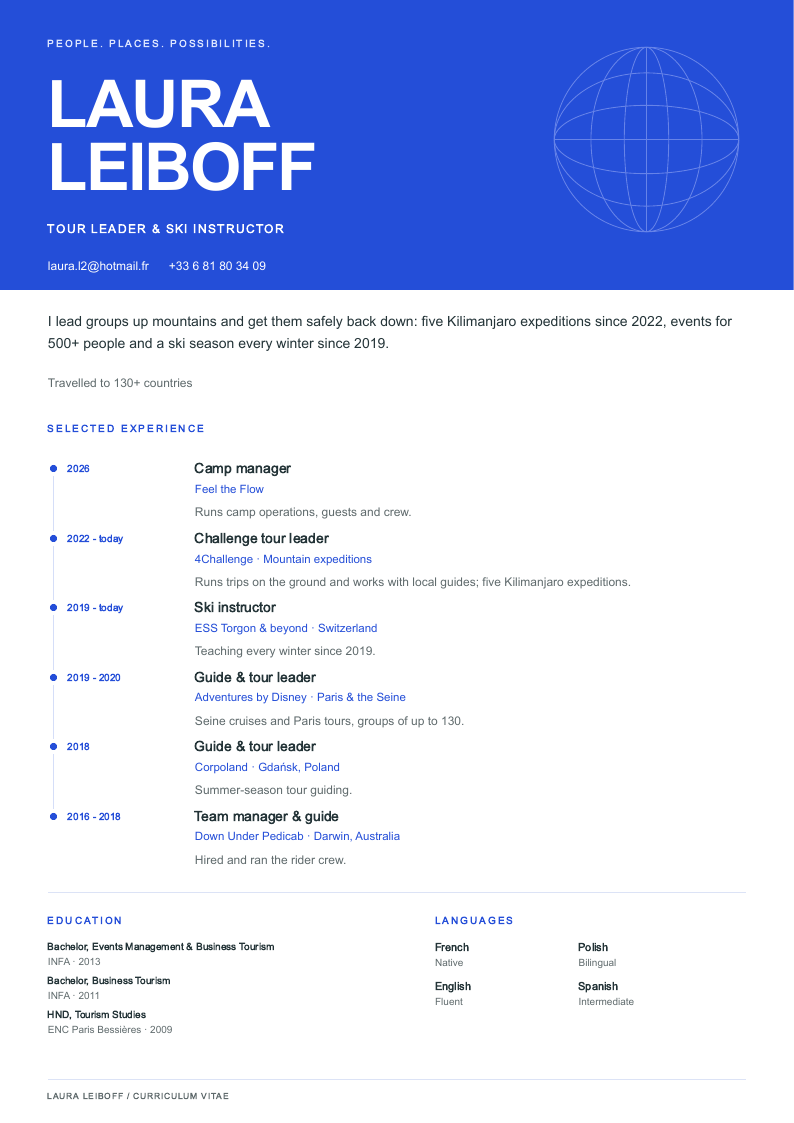
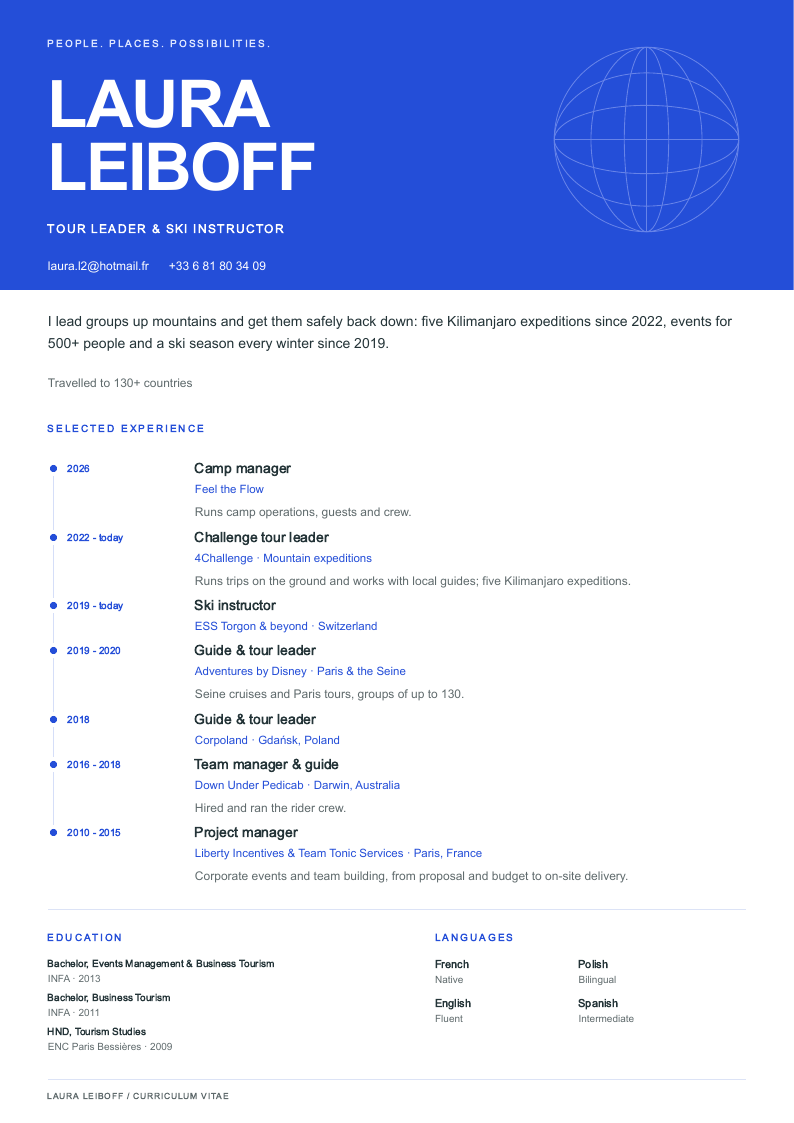
Add 2010-2015 project manager role across all designs
Liberty Incentives & Team Tonic Services, Paris. Seven jobs now fit on
one A4 page everywhere: empty descriptions are skipped (ski instructor and
Corpoland don't need one), passport stamps go four per row, the piste map
gains a seventh run, and the GPT layouts reclaim spare footer space.

diff --git a/claude/render.js b/claude/render.js
@@ -7,6 +7,7 @@
   const range = (j, sep) => esc(j.date.replace(' - ', sep));
   const start = j => esc(j.date.split(' - ')[0]);
   const at = j => esc([j.company, j.place].filter(Boolean).join(', '));
+  const desc = j => j.description ? `<p>${esc(j.description)}</p>` : '';
   const values = { ...d, languagesCount: d.languages.length };
 
   // Single values: <span data-cv="countries"></span>; an <a data-cv="email"> also gets its mailto.
@@ -22,7 +23,7 @@
   if (design === 'summit') {
     fill('[data-jobs]', d.jobs.map((j, i) => `<li${i ? '' : ' class="now"'}>
       <div class="meta"><span class="when">${range(j, ' — ')}</span> <span class="where">${at(j)}</span></div>
-      <div class="what">${esc(j.title)}</div><p>${esc(j.description)}</p></li>`).join(''));
+      <div class="what">${esc(j.title)}</div>${desc(j)}</li>`).join(''));
     fill('[data-languages]', d.languages.map(([l, lvl]) =>
       `<li>${esc(l)} <span class="bar"><i style="width:${levelWidth[lvl] || 50}%"></i></span><small>${esc(lvl)}</small></li>`).join(''));
     fill('[data-education]', d.education.map(([t, org, y]) => `<li><b>${esc(y)}</b> ${esc(t)}, ${esc(org)}</li>`).join(''));
@@ -32,7 +33,7 @@
   if (design === 'passport') {
     fill('[data-jobs]', d.jobs.map((j, i) => `<div class="stamp s${i + 1}">
       <div class="t">${esc(j.title)}</div><div class="d">${range(j, ' → ')}</div>
-      <p>${esc(j.company)}. ${esc(j.description)}</p></div>`).join(''));
+      <p>${esc([j.company, j.description].filter(Boolean).join('. '))}</p></div>`).join(''));
     fill('[data-languages]', d.languages.map(([l, lvl]) => `<li><b>${esc(l)}</b> ${esc(lvl.toLowerCase())}</li>`).join(''));
     fill('[data-education]', d.education.map(([t, org, y]) => `<li><b>${esc(y)}</b> ${esc(t)} — ${esc(org)}</li>`).join(''));
     fill('[data-interests]', d.interests.map(x => `<li>${esc(x)}</li>`).join(''));
@@ -40,7 +41,7 @@
 
   if (design === 'riso') {
     fill('[data-jobs]', d.jobs.map(j => `<li><div class="yr">${start(j)}${j.date.endsWith('today') ? ' —' : ''}</div>
-      <div><h3>${esc(j.title)} <span class="at">${esc(j.company)}</span></h3><p>${esc(j.description)}</p></div></li>`).join(''));
+      <div><h3>${esc(j.title)} <span class="at">${esc(j.company)}</span></h3>${desc(j)}</div></li>`).join(''));
     fill('[data-languages]', d.languages.map(([l, lvl]) => `<li><b>${esc(l)}</b> ${esc(lvl.toLowerCase())}</li>`).join(''));
     fill('[data-education]', d.education.map(([t, org, y]) => `<li>${esc(t)}, ${esc(org)} — ${esc(y)}</li>`).join(''));
     fill('[data-interests]', d.interests.map(x => `<span>${esc(x)}</span>`).join(''));
@@ -49,7 +50,7 @@
   if (design === 'piste') {
     const runs = [...d.jobs].reverse(); // oldest is run 1, matching the map's left-to-right order
     fill('[data-jobs]', runs.map((j, i) => `<li><span class="mark ${kindClass[j.kind]}">${i + 1}</span><div>
-      <h3>${esc(j.title)}</h3><div class="meta">${at(j)} — ${range(j, ' to ')}</div><p>${esc(j.description)}</p></div></li>`).join(''));
+      <h3>${esc(j.title)}</h3><div class="meta">${at(j)} — ${range(j, ' to ')}</div>${desc(j)}</div></li>`).join(''));
     runs.forEach((j, i) => {
       document.querySelectorAll(`[data-run="${i + 1}"]`).forEach(el =>
         el.setAttribute(el.tagName === 'path' ? 'stroke' : 'fill', kindColor[j.kind]));

diff --git a/claude/4-piste.html b/claude/4-piste.html
@@ -143,7 +143,7 @@
     </div>
   </header>
 
-  <svg class="map" viewBox="0 28 800 350" aria-label="Career drawn as a ski-resort trail map with six numbered runs">
+  <svg class="map" viewBox="0 28 800 350" aria-label="Career drawn as a ski-resort trail map with seven numbered runs">
     <defs>
       <symbol id="tree" viewBox="0 0 20 30"><path d="M10 0 L20 22 L13 22 L13 30 L7 30 L7 22 L0 22 Z" fill="var(--pine)"/></symbol>
     </defs>
@@ -161,23 +161,25 @@
 
     <!-- runs -->
     <g fill="none" stroke-width="6" stroke-linecap="round">
-      <path data-run="1" d="M180,125 C150,200 230,260 160,370"/>
-      <path data-run="2" d="M200,140 C260,210 220,290 290,370"/>
-      <path data-run="3" d="M380,90 C330,170 400,250 360,375"/>
-      <path data-run="4" d="M420,90 C480,170 430,260 480,375"/>
-      <path data-run="5" d="M405,62 C560,140 520,240 600,370"/>
-      <path data-run="6" d="M640,110 C700,190 640,280 720,370"/>
+      <path data-run="1" d="M150,145 C105,215 150,285 70,372"/>
+      <path data-run="2" d="M180,125 C150,200 230,260 160,370"/>
+      <path data-run="3" d="M200,140 C260,210 220,290 290,370"/>
+      <path data-run="4" d="M380,90 C330,170 400,250 360,375"/>
+      <path data-run="5" d="M420,90 C480,170 430,260 480,375"/>
+      <path data-run="6" d="M405,62 C560,140 520,240 600,370"/>
+      <path data-run="7" d="M640,110 C700,190 640,280 720,370"/>
     </g>
     <g stroke="#fff" stroke-width="2.5">
-      <circle data-run="1" cx="185" cy="234" r="13"/>
-      <circle data-run="2" cx="241" cy="251" r="13"/>
-      <circle data-run="3" cx="366" cy="216" r="13"/>
-      <circle data-run="4" cx="454" cy="219" r="13"/>
-      <circle data-run="5" cx="530" cy="197" r="13"/>
-      <circle data-run="6" cx="672" cy="236" r="13"/>
+      <circle data-run="1" cx="122" cy="252" r="13"/>
+      <circle data-run="2" cx="185" cy="234" r="13"/>
+      <circle data-run="3" cx="241" cy="251" r="13"/>
+      <circle data-run="4" cx="366" cy="216" r="13"/>
+      <circle data-run="5" cx="454" cy="219" r="13"/>
+      <circle data-run="6" cx="530" cy="197" r="13"/>
+      <circle data-run="7" cx="672" cy="236" r="13"/>
     </g>
-    <text class="num" x="185" y="234">1</text><text class="num" x="241" y="251">2</text><text class="num" x="366" y="216">3</text>
-    <text class="num" x="454" y="219">4</text><text class="num" x="530" y="197">5</text><text class="num" x="672" y="236">6</text>
+    <text class="num" x="122" y="252">1</text><text class="num" x="185" y="234">2</text><text class="num" x="241" y="251">3</text><text class="num" x="366" y="216">4</text>
+    <text class="num" x="454" y="219">5</text><text class="num" x="530" y="197">6</text><text class="num" x="672" y="236">7</text>
 
     <!-- peak names -->
     <text class="peak" x="412" y="40">Kibo</text><text class="alt" x="452" y="40">5,895 m</text>

diff --git a/content.js b/content.js
@@ -22,12 +22,14 @@ window.CV = {
     ['HND, Tourism Studies', 'ENC Paris Bessières', '2009']
   ],
   // Newest first. `kind` colours the runs on the piste map: manage, expedition, ski, guide.
+  // Leave `description` empty when the title says it all; every design skips empty ones.
   jobs: [
     {date:'2026', title:'Camp manager', company:'Feel the Flow', place:'', kind:'manage', description:'Runs camp operations, guests and crew.'},
     {date:'2022 - today', title:'Challenge tour leader', company:'4Challenge', place:'Mountain expeditions', kind:'expedition', description:'Runs trips on the ground and works with local guides; five Kilimanjaro expeditions.'},
-    {date:'2019 - today', title:'Ski instructor', company:'ESS Torgon & beyond', place:'Switzerland', kind:'ski', description:'Teaching every winter since 2019.'},
+    {date:'2019 - today', title:'Ski instructor', company:'ESS Torgon & beyond', place:'Switzerland', kind:'ski', description:''},
     {date:'2019 - 2020', title:'Guide & tour leader', company:'Adventures by Disney', place:'Paris & the Seine', kind:'guide', description:'Seine cruises and Paris tours, groups of up to 130.'},
-    {date:'2018', title:'Guide & tour leader', company:'Corpoland', place:'Gdańsk, Poland', kind:'guide', description:'Summer-season tour guiding.'},
-    {date:'2016 - 2018', title:'Team manager & guide', company:'Down Under Pedicab', place:'Darwin, Australia', kind:'manage', description:'Hired and ran the rider crew.'}
+    {date:'2018', title:'Guide & tour leader', company:'Corpoland', place:'Gdańsk, Poland', kind:'guide', description:''},
+    {date:'2016 - 2018', title:'Team manager & guide', company:'Down Under Pedicab', place:'Darwin, Australia', kind:'manage', description:'Hired and ran the rider crew.'},
+    {date:'2010 - 2015', title:'Project manager', company:'Liberty Incentives & Team Tonic Services', place:'Paris, France', kind:'manage', description:'Corporate events and team building, from proposal and budget to on-site delivery.'}
   ]
 };

diff --git a/claude/2-passport.html b/claude/2-passport.html
@@ -99,8 +99,8 @@
   /* Stamps */
   .stamps {
     display: grid;
-    grid-template-columns: repeat(3, 1fr);
-    gap: 5mm 4mm;
+    grid-template-columns: repeat(4, 1fr);
+    gap: 5mm 3mm;
     align-items: center;
   }
   .stamp {
@@ -109,15 +109,15 @@
     border: 2.5px solid var(--c);
     outline: 1px solid var(--c);
     outline-offset: -6px;
-    padding: 4mm 4mm 3.5mm;
+    padding: 3.5mm 3mm 3mm;
     text-align: center;
     border-radius: 3mm;
     mix-blend-mode: multiply;
     position: relative;
   }
-  .stamp .t { font-family: "Rubik", sans-serif; font-weight: 900; font-size: 11pt; line-height: 1.1; text-transform: uppercase; letter-spacing: .02em; }
+  .stamp .t { font-family: "Rubik", sans-serif; font-weight: 900; font-size: 9.5pt; line-height: 1.1; text-transform: uppercase; letter-spacing: .02em; }
   .stamp .d { font-family: "Space Mono", monospace; font-size: 9pt; margin: 1.5mm 0; }
-  .stamp p { margin: 0; font-size: 8.5pt; color: var(--ink); }
+  .stamp p { margin: 0; font-size: 8pt; color: var(--ink); }
   .stamp.round { border-radius: 50%; width: 38mm; height: 38mm; display: flex; flex-direction: column; justify-content: center; padding: 4mm; }
   /* Kilimanjaro stamp pressed over the corner of the data page */
   .kili { --c: var(--teal); position: absolute; right: 14mm; top: 84mm; width: 33mm !important; height: 33mm !important; transform: rotate(-12deg); }
@@ -129,6 +129,7 @@
   .s4 { --c: var(--mustard); transform: rotate(3deg); }
   .s5 { --c: var(--green); transform: rotate(-2.5deg); }
   .s6 { --c: var(--coral); transform: rotate(1.5deg); border-style: dashed; }
+  .s7 { --c: var(--violet); transform: rotate(-1deg); border-style: dashed; }
 
   .bottom { display: grid; grid-template-columns: 1fr 1fr 1fr; gap: 6mm; margin-top: 2mm; }
   .bottom ul { list-style: none; padding: 0; margin: 0; }

diff --git a/cv.js b/cv.js
@@ -10,7 +10,7 @@ const languages = () => `<section class="languages">${heading('Languages')}<dl>$
 const strengths = () => `<section class="strengths">${heading('What I bring')}<ul>${d.strengths.map(s=>`<li>${esc(s)}</li>`).join('')}</ul></section>`;
 const interests = () => `<section class="interests">${heading('Beyond the itinerary')}<ul>${d.interests.map(s=>`<li>${esc(s)}</li>`).join('')}</ul></section>`;
 const education = () => `<section class="education">${heading('Education')}<div>${d.education.map(([title,org,year])=>`<p><strong>${esc(title)}</strong><span>${esc(org)} · ${esc(year)}</span></p>`).join('')}</div></section>`;
-const jobs = () => `<section class="experience">${heading('Selected experience')}<div class="jobs">${d.jobs.map((j,i)=>`<article class="job"><div class="job-date"><span class="job-number">0${i+1}</span>${esc(j.date)}</div><div class="job-copy"><h3>${esc(j.title)}</h3><p class="company">${esc(j.company)}${j.place?` <span>· ${esc(j.place)}</span>`:''}</p><p class="description">${esc(j.description)}</p></div></article>`).join('')}</div></section>`;
+const jobs = () => `<section class="experience">${heading('Selected experience')}<div class="jobs">${d.jobs.map((j,i)=>`<article class="job"><div class="job-date"><span class="job-number">0${i+1}</span>${esc(j.date)}</div><div class="job-copy"><h3>${esc(j.title)}</h3><p class="company">${esc(j.company)}${j.place?` <span>· ${esc(j.place)}</span>`:''}</p>${j.description?`<p class="description">${esc(j.description)}</p>`:''}</div></article>`).join('')}</div></section>`;
 const name = () => `<h1><span>${esc(d.firstName)}</span> <span>${esc(d.lastName)}</span></h1>`;
 const title = () => `<p class="role">${esc(d.title)}</p>`;
 const footer = () => `<footer><span>Laura Leiboff / Curriculum vitae</span></footer>`;

diff --git a/styles.css b/styles.css
@@ -26,3 +26,8 @@
 .editorial .job+.job{margin-top:13px}.editorial .intro{margin-bottom:22px}
 .atlas .sheet header{height:290px}.atlas main{padding-top:22px}.atlas .intro{margin-bottom:20px}.atlas .job+.job{margin-top:8px}.atlas .job:after{bottom:-8px}.atlas .bottom-grid{margin-top:22px}
 .studio header{min-height:180px}.studio .intro-grid{margin-top:16px}.studio .experience{margin-top:20px}.studio .job+.job{margin-top:8px}.studio .job-copy{padding-bottom:7px}
+/* Seven jobs: reclaim part of the 80px reserved above the 45px footer, and tighten job rhythm. */
+.editorial .sheet{padding-bottom:60px}.editorial .job+.job{margin-top:12px}
+.atlas main{padding-bottom:60px}.atlas .job+.job{margin-top:7px}.atlas .job:after{bottom:-7px}
+.field main{padding-bottom:60px}.field .job+.job{margin-top:18px}
+.studio .sheet{padding-bottom:60px}.studio .job+.job{margin-top:6px}
